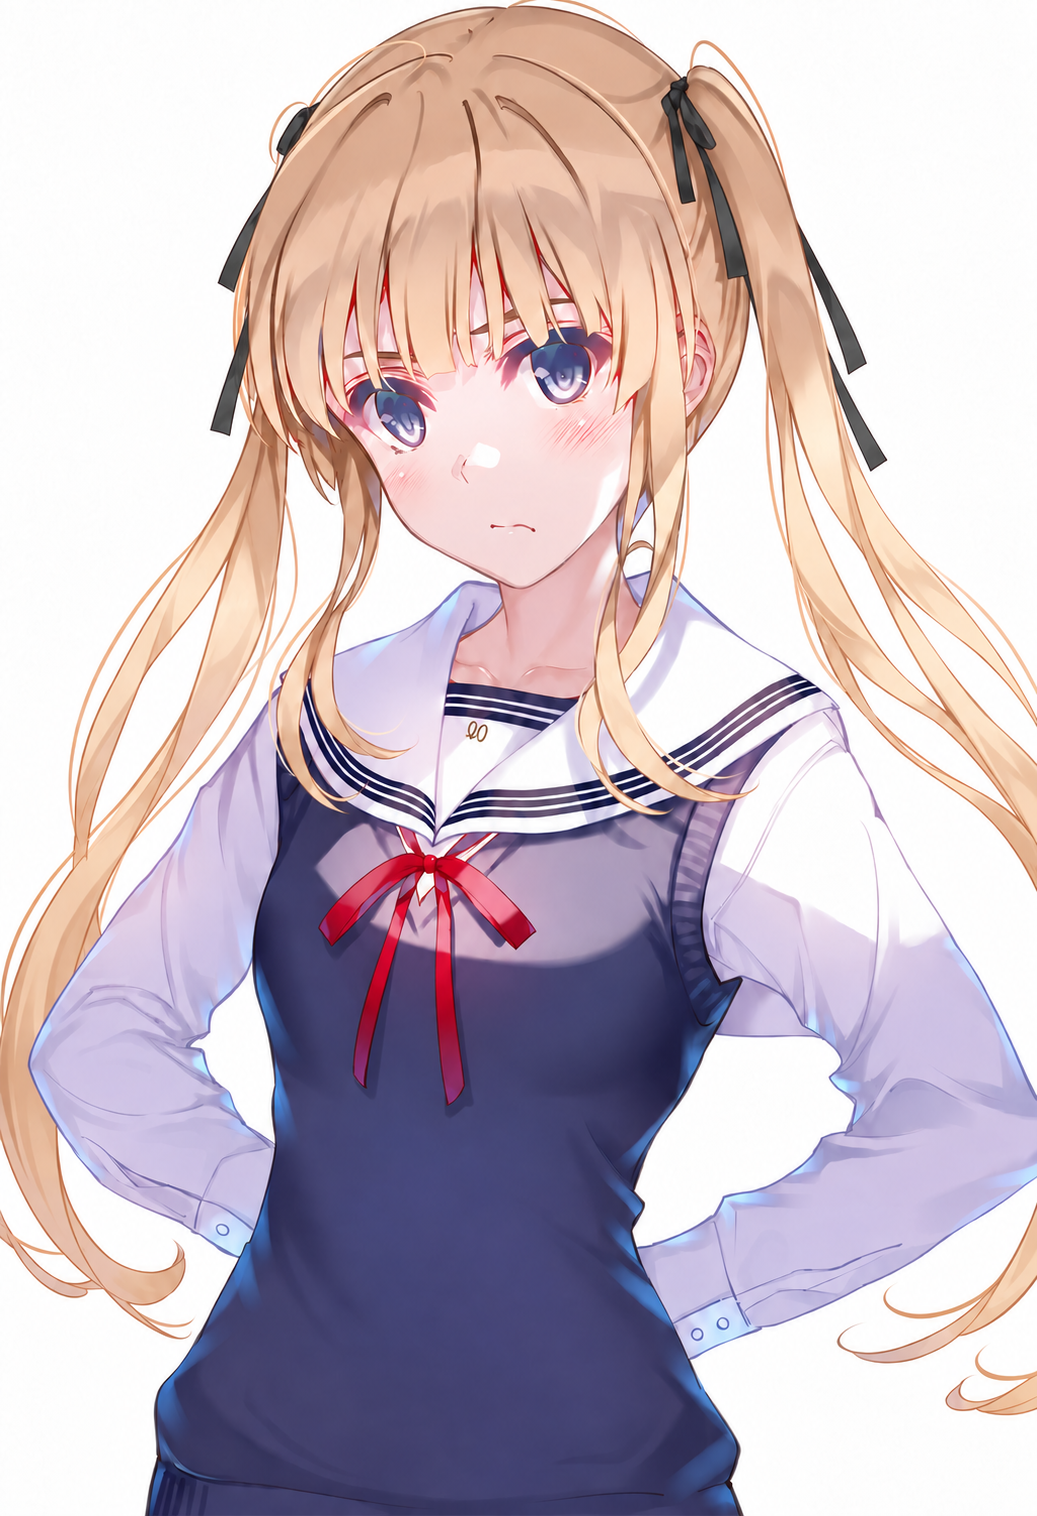
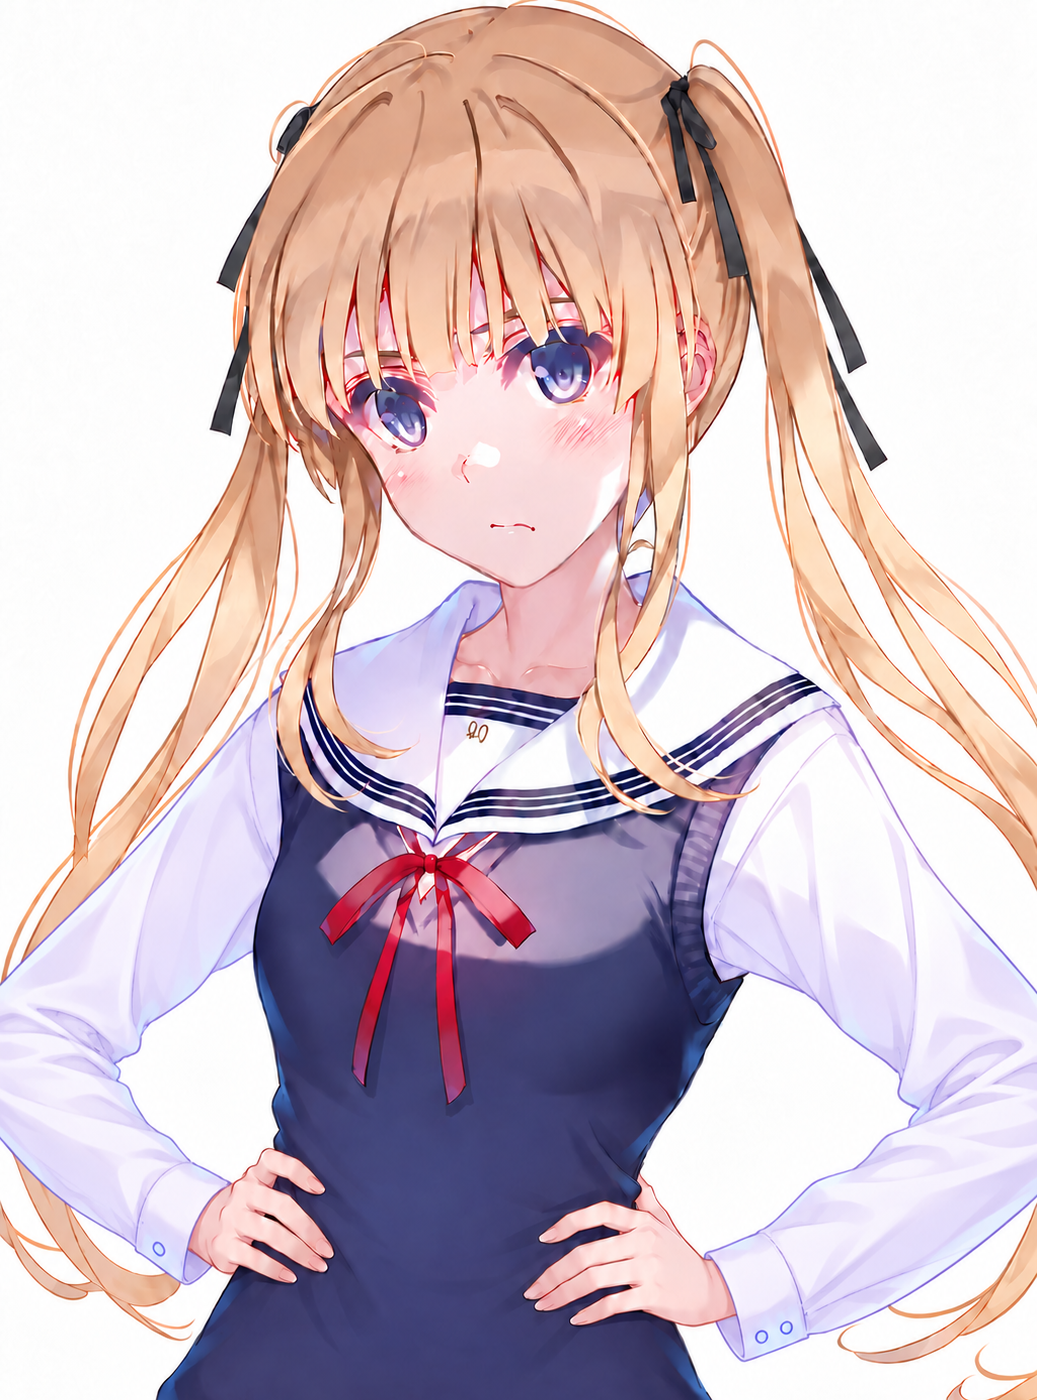
Update 泽村英梨梨 default portrait

diff --git a/images/portraits/saekano/sawamura-spencer-eriri/README.md b/images/portraits/saekano/sawamura-spencer-eriri/README.md
@@ -1,9 +1,9 @@
 # 泽村英梨梨 · 常规立绘
 
 - 当前文件：[default.png](default.png)。
-- 用户选定原图：`216-eriri-medium-ribbon-length-v4-s1164657126-20260913.png`。
-- 尺寸：1037 × 1516；大小：1,709,676 字节。
[1 lines of base64/hex data omitted]
+- 用户选定原图：`v3-crop-bottom-1037x1400.png`。
+- 尺寸：1037 × 1400；大小：2,273,419 字节。
[1 lines of base64/hex data omitted]
 - PNG 模型记录：未知。
 - 可读取的生成参数：seed 未知；steps 未知；scale 未知；cfg_rescale 未知；sampler 未知；noise_schedule 未知。
 - 原图字节及内嵌数据完整保留，没有裁切、缩放、抠图或重新编码。
